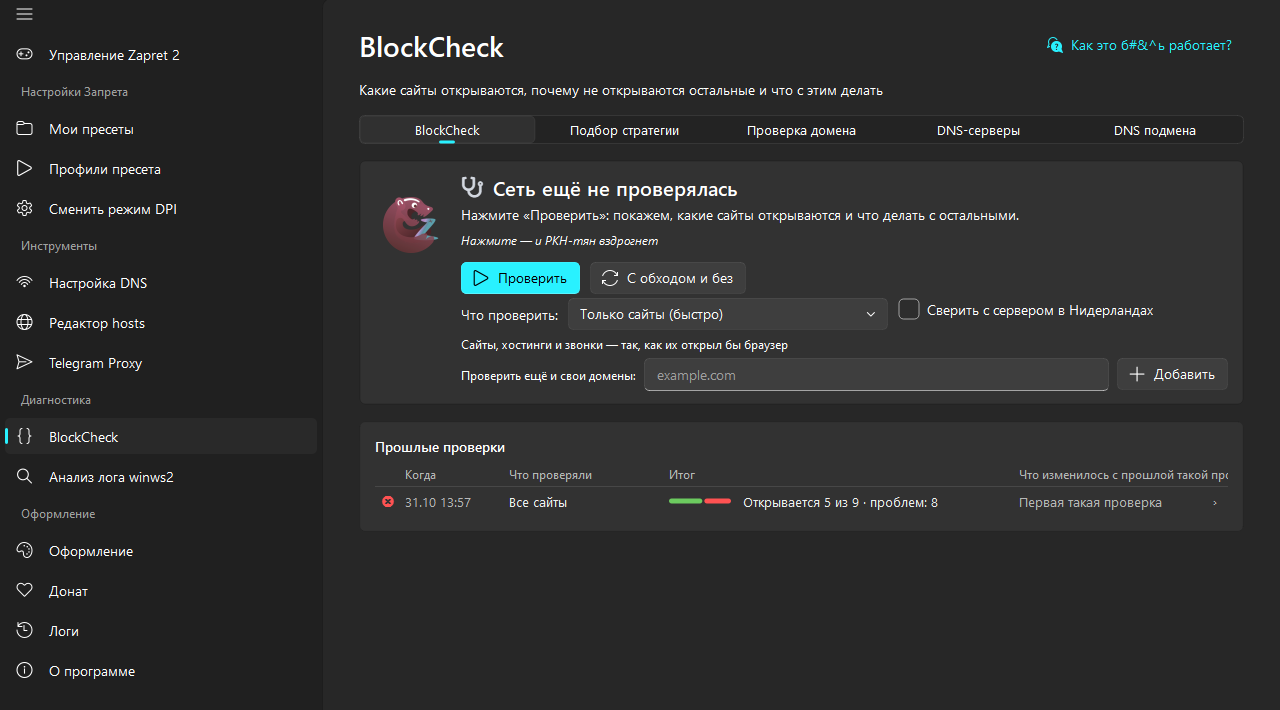
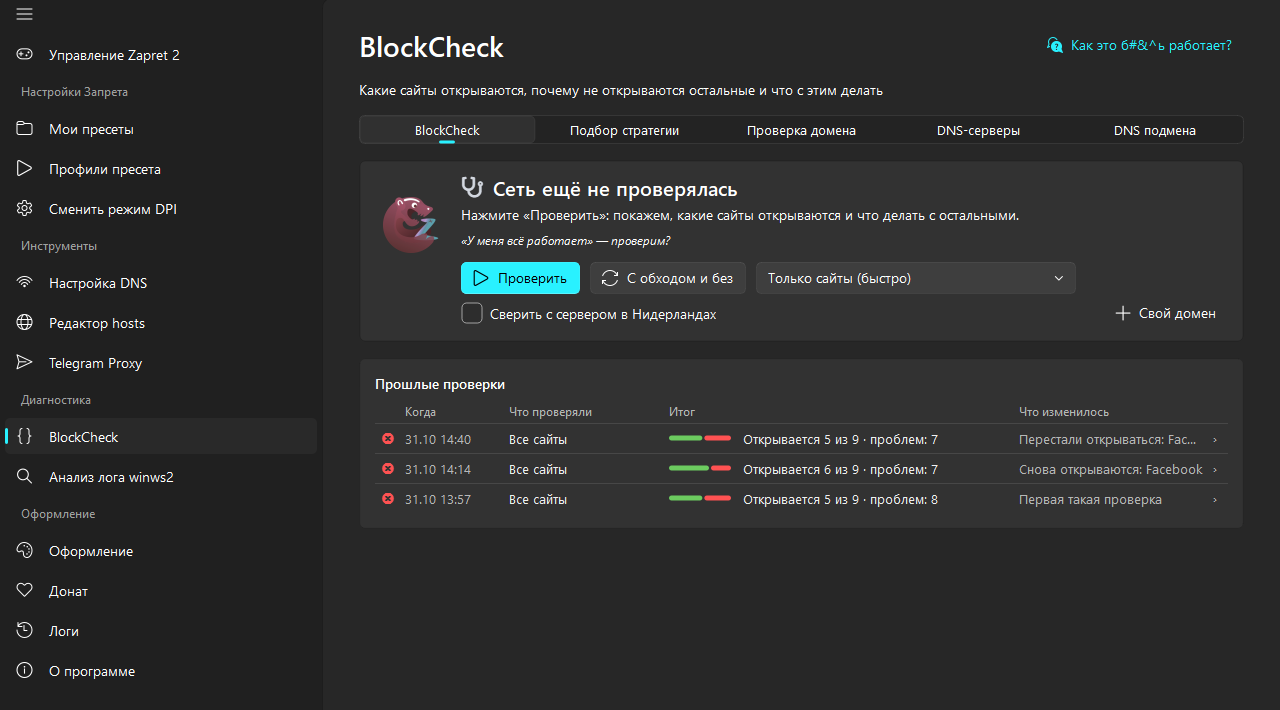
BlockCheck: статья подробнее — куда идти дальше после проверки
Карта «что показал BlockCheck → какую статью читать» в начале, разбор каждого
вида блокировки с объяснением простыми словами и ссылкой на следующую статью,
пояснение меток дорог на карточке сайта, что делать, если подбор стратегии
ничего не нашёл, частые вопросы и полная таблица «Что читать дальше» в конце.
Шаг 1 и снимки панели запуска, хода проверки и итога — под новую панель в две
строки (Dev 21.1.7.219–220).

diff --git a/Zapret/Blockcheck.md b/Zapret/Blockcheck.md
@@ -35,6 +35,20 @@ link: https://jzesawgjsz.zapret.moe/Zapret/zapret-22-stable-october-2026
 - **Проверка домена**, **DNS-серверы** и **DNS подмена** отвечают на частные вопросы: что происходит с одним сайтом, какие DNS-серверы у вас рабочие и не подменяет ли провайдер адреса.
 - Стратегия помогает не от всего. Бан по адресу, сайт, который сам закрыт для России, и подмену DNS лечат «Редактор hosts» и «Настройка DNS», и BlockCheck подсказывает это прямо в итоге.
 
+## Куда идти после BlockCheck
+
+BlockCheck — это диагностика: он не чинит сайт сам, а говорит, *что* ему мешает. Дальше всё зависит от ответа, и для каждого ответа в вики есть своя статья. Короткая карта, чтобы не заблудиться:
+
+- **Программа только установлена и ничего не настроено** — сначала [[Zapret2/guide|настройка Zapret 2 GUI для новичков]]: выбор пресета и запуск обхода. BlockCheck полезнее, когда есть что сравнивать.
+- **Итог «по имени (SNI)», «обрыв», «через раз», «почерк браузера»** — это работа для стратегии: вкладка «Подбор стратегии» ниже, затем [[Zapret2/verify-strategy|как честно проверить стратегию]] и, если хочется понять механику, [[Zapret2/desync|как устроены стратегии]].
+- **Итог «по адресу (IP)» или сервис сам закрыт для России** (ChatGPT, Gemini, Claude, Spotify) — стратегия не поможет, нужен другой адрес: [[Zapret/hosts|Редактор hosts]] и [[Zapret/zapret-dns|Zapret DNS]].
+- **Итог «DNS»** — провайдер подменяет ответы или DNS-сервер молчит: [[Zapret/doh-cherez-zapret|шифрованный DNS и Zapret]] и [[DPI/tspu-dns-nsdi-dnat-august-2026|как устроен перехват DNS]].
+- **Сайт открывается, но частично** (нет картинок, видео, чата) — [[Zapret2/find-site-domains|как найти домены, которые не грузятся]], потом [[Zapret2/add-profile|как добавить их в свой профиль]].
+- **Игры и звонки** — [[Zapret2/find-game-strategy|как подобрать стратегию для игры]] и [[Zapret/discord|Discord]].
+- **Вчера работало, сегодня нет** — [[Zapret2/symptom-not-cause|почему «Zapret перестал работать» — это обычно обновление фильтра у провайдера]].
+
+Полная таблица «что показал BlockCheck → что читать» стоит в конце статьи, в разделе «Что читать дальше».
+
 ## Где найти BlockCheck
 
 Раздел открывается пунктом **BlockCheck** в группе «Диагностика» бокового меню. Сверху у него пять вкладок: **BlockCheck**, **Подбор стратегии**, **Проверка домена**, **DNS-серверы** и **DNS подмена**. Первая вкладка отвечает на общий вопрос «что у меня не открывается и почему», остальные решают отдельные задачи, о них ниже.
@@ -43,11 +57,18 @@ link: https://jzesawgjsz.zapret.moe/Zapret/zapret-22-stable-october-2026
 
 ## Шаг 1. Запустите проверку
 
-Пока проверок не было, на вкладке видна панель «Сеть ещё не проверялась». В ней всё, чем проверку настраивают:
+Пока проверок не было, на вкладке видна панель «Сеть ещё не проверялась». Управление в ней занимает две строки.
 
-- **«Что проверить»** — набор проверок. «Только сайты (быстро)» проверяет список популярных сайтов так, как их открыл бы браузер. «Только Discord и YouTube (быстро)» проверяет только эти два сервиса. «Глубокая диагностика (около минуты)» добавляет DNS-серверы, поиск места фильтра и пробы, которых браузер не делает: пачку соединений сразу, серию UDP-пакетов, загрузку на сервер.
-- **«Сверить с сервером в Нидерландах»** — сервер проекта откроет закрытые сайты из-за рубежа. Так видно, блокировка это или сайт не работает сам. Галочка выключена по умолчанию, потому что соединение с сервером проекта видит провайдер.
-- **«Проверить ещё и свои домены»** — если нужного сайта нет в списке, впишите его адрес и нажмите «Добавить». Домен запомнится и будет проверяться вместе с остальными, пока вы его не уберёте.
+В первой строке кнопки и выпадающий список с набором проверок:
+
+- **«Только сайты (быстро)»** — список популярных сайтов, каждый открывается так, как его открыл бы браузер. Это режим по умолчанию и самый полезный для начала: одна-две минуты.
+- **«Только Discord и YouTube (быстро)»** — только эти два сервиса, когда нужен быстрый ответ про них.
+- **«Глубокая диагностика (около минуты)»** — всё то же плюс проверка DNS-серверов, поиск места фильтра и пробы, которых браузер не делает: пачка соединений сразу, серия UDP-пакетов, загрузка на сервер. Нужна, когда быстрый режим не объяснил, что происходит, или когда разбираетесь с поддержкой.
+
+Во второй строке — две настройки:
+
+- **«Сверить с сервером в Нидерландах»** — для сайтов, которые не открылись, программа спросит сервер проекта Zapret DNS в Нидерландах, открываются ли они из-за рубежа. Если и там нет, BlockCheck честно скажет «сайт не работает сам», а не назовёт это блокировкой. На сервер уходят только имена сайтов из встроенного списка, ваши собственные домены и сведения о компьютере не уходят; сервер ничего не записывает. Галочка выключена по умолчанию по одной причине: провайдер увидит, что компьютер соединился с сервером проекта (что внутри соединения, он не видит).
+- **«+ Свой домен»** — если нужного сайта нет в проверке, нажмите эту ссылку, впишите адрес и нажмите «Добавить». Домен запомнится и будет проверяться вместе с остальными, пока вы его не уберёте.
 
 Затем нажмите **«Проверить»**.
 
@@ -90,7 +111,33 @@ link: https://jzesawgjsz.zapret.moe/Zapret/zapret-22-stable-october-2026
 
 ![[blockcheck-v22-what-helps.png]]
 
-Проще говоря: если в итоге написано «по имени», «обрыв» или «через раз», идите в «Подбор стратегии». Если «по адресу», «DNS» или «hosts», стратегию подбирать бессмысленно, и кнопка в группе сразу ведёт в нужный раздел.
+Проще говоря: если в итоге написано «по имени», «обрыв» или «через раз», идите в «Подбор стратегии». Если «по адресу», «DNS» или «hosts», стратегию подбирать бессмысленно, и кнопка в группе сразу ведёт в нужный раздел. Ниже каждый вид разобран подробнее: как он выглядит, почему так происходит и что читать дальше.
+
+### Блокировка по имени (SNI)
+
+Когда браузер открывает сайт по HTTPS, первым пакетом он здоровается с сервером, и в этом приветствии открытым текстом написано имя сайта (поле SNI). Оборудование провайдера (ТСПУ — технические средства противодействия угрозам) читает это имя и, если оно в списке, молча глушит соединение. На карточке это выглядит как «TLS 1.2: молчит», «TLS 1.3: молчит», «Chrome: режется», а в подробностях — строка «то же имя другими буквами сервер принимает»: фильтр ищет имя буква в букву, а сам сервер жив.
+
+Проще говоря: сервер работает, но провайдер рвёт соединение, как только видит имя сайта. Именно это обходит Zapret: стратегия меняет первые пакеты так, что фильтр имени не узнаёт. Идите во вкладку «Подбор стратегии». Как стратегии это делают, разобрано в статье [[Zapret2/desync|про --lua-desync]], а самые частые приёмы — в разборах [[Zapret2/desync/fake|fake]] и [[Zapret2/desync/multisplit|multisplit]].
+
+### Обрыв после 16 КБ и «открываются через раз»
+
+Соединение устанавливается, первые килобайты проходят, а потом данные замирают. Так работает фильтр, который пропускает начало соединения и обрывает его на объёме около 16–20 КБ: страница начинает грузиться и останавливается, видео стоит на загрузке. «Через раз» — когда часть попыток проходит, часть нет. Оба вида тоже лечатся стратегией. Почему фильтр устроен именно так, разобрано в статье [[DPI/dpi-analysis-pipeline|как ТСПУ анализирует соединение слой за слоем]].
+
+### Бан по адресу (IP)
+
+Здесь закрыт сам адрес сервера: до него не доходит ни одно соединение, как ни меняй пакеты. Стратегия помогает тут редко. Нужен другой адрес, по которому сервис тоже отвечает: его подставляет DNS-профиль в [[Zapret/hosts|Редакторе hosts]] или сервер [[Zapret/zapret-dns|Zapret DNS]]. Если сервис нужен целиком и адреса закрыты все, остаётся VPN.
+
+### DNS
+
+DNS — служба, которая превращает имя сайта в адрес. Если провайдер подменяет ответ, браузер идёт не туда, и сайт не открывается ещё до всякой проверки соединения. В итоге это группа «DNS» с кнопкой «Настройка DNS»: там включается шифрованный DNS, ответ которого провайдер не может прочитать и подменить. Подробнее — [[Zapret/doh-cherez-zapret|поможет ли Zapret, если блокируют сам DNS]] и [[DPI/tspu-dns-nsdi-dnat-august-2026|как провайдеры перехватывают DNS]]. Проверить подмену отдельно можно на вкладке «DNS подмена».
+
+### Мешает запись в hosts и чужой сертификат
+
+Иногда сайт ломает не провайдер, а сам компьютер: в файле hosts записан старый адрес сайта, который больше не отвечает, или вместо сайта отвечает чужой сервер со своим сертификатом — например, страница провайдера или программа на компьютере, которая сама разбирает HTTPS. BlockCheck называет такую причину прямо: «Мешает запись в hosts», «Отвечает чужой сервер». Запись обновляется или убирается в [[Zapret/hosts|Редакторе hosts]].
+
+### Сайт не работает сам
+
+Сайт не открывается и из-за рубежа — значит, он выключен, а не заблокирован. Этот вывод BlockCheck делает, только когда включена галочка «Сверить с сервером в Нидерландах». Zapret тут не поможет: подождите и повторите проверку.
 
 ## Шаг 4. Посмотрите карточки сайтов
 
@@ -98,8 +145,17 @@ link: https://jzesawgjsz.zapret.moe/Zapret/zapret-22-stable-october-2026
 
 - кружок и подпись под названием: открывается сайт или чем закрыт;
 - строки — отдельные адреса сервиса: сам сайт, превью видео, служба плеера, видео, чат, картинки;
-- метки внизу — какие дороги прошли и какие нет: TLS 1.2, TLS 1.3, Chrome (приветствие настоящего браузера), HTTP, QUIC, передача (быстро ли идут данные и нет ли пауз) и DNS (честен ли ответ);
-- метки «в реестре РКН», «контрольный», «запись в hosts устарела».
+- метки внизу — какие дороги к сайту прошли и какие нет;
+- метки «в реестре РКН» (сайт есть в реестре блокировок), «контрольный», «запись в hosts устарела».
+
+Метки дорог — главное на карточке. Каждая — отдельный способ открыть сайт, и вместе они показывают, что именно режет фильтр:
+
+- **TLS 1.2** и **TLS 1.3** — шифрованное соединение с двумя версиями протокола. «Молчит» значит, что на приветствие никто не ответил: так фильтр глушит соединение по имени.
+- **Chrome** — то же соединение, но с приветствием настоящего браузера Chrome. Если TLS «молчит», а Chrome «проходит», сайт откроется в браузере.
+- **HTTP** — обычное соединение без шифрования. Многие сайты отвечают на него переходом на HTTPS («переход») — это нормально.
+- **QUIC** — быстрый протокол браузера поверх UDP, которым открываются YouTube и многие сайты Google. «Закрыт» значит, что браузер откатится на обычное соединение — медленнее, но работать будет.
+- **Передача** — быстро ли сайт отвечает и нет ли пауз: соединение может установиться, а видео всё равно идти рывками.
+- **DNS** — честен ли ответ DNS: совпал ли адрес с эталонным.
 
 Google и Яндекс — контрольные сайты. Если не открываются даже они, дело не в блокировке, а в самом интернете.
 
@@ -146,7 +202,15 @@ Google и Яндекс — контрольные сайты. Если не от
 
 Пока идёт подбор, программа сама перезапускает движок с каждой стратегией. Сначала она убеждается, что без обхода сайт закрыт, потом перебирает стратегии, а каждую удачную перепроверяет. В «Надёжно работают» попадают только те, что открыли сайт три раза на свежих соединениях и выдержали объём: фильтр часто режет соединение после 16–20 КБ. «Сайты и приложения» сами поймут, если сайту нужен обычный HTTP без шифрования или быстрый протокол QUIC.
 
-**«Применить лучшую»** записывает самую быструю стратегию в выбранный пресет и сразу проверяет сайт уже через него, а «Применить» в строке — любую другую. Стратегия ложится не в общий профиль, а в отдельный [[Zapret2/profile|профиль]] для этого сайта, поэтому остальные сайты она не трогает. Как проверить стратегию вручную, разобрано в заметке [[Zapret2/verify-strategy|как честно проверить стратегию]].
+**«Применить лучшую»** записывает самую быструю стратегию в выбранный пресет и сразу проверяет сайт уже через него, а «Применить» в строке — любую другую. Стратегия ложится не в общий профиль, а в отдельный [[Zapret2/profile|профиль]] для этого сайта, поэтому остальные сайты она не трогает. Что такое пресет и профиль и как они связаны, объясняют статьи [[Zapret2/preset|про пресет]] и [[Zapret2/profile|про профиль]].
+
+Если подбор ничего не нашёл, причин обычно три, и для каждой есть своя статья:
+
+- сайт закрыт по адресу или сам не пускает из России — тогда стратегию искать бесполезно, вернитесь к итогу BlockCheck и посмотрите [[Zapret/hosts|Редактор hosts]];
+- сайт открылся, но частично: часть его доменов идёт мимо профиля — [[Zapret2/find-site-domains|как найти такие домены]] и [[Zapret2/add-profile|как добавить их в профиль]];
+- нужна игра или голосовой чат, а не сайт — режим «Онлайн-игры» и статья [[Zapret2/find-game-strategy|как подобрать стратегию для игры]].
+
+Подбор пишет, что стратегия работает, а браузер всё равно не открывает сайт? Чаще всего мешают кэш браузера, его собственный «безопасный DNS» или расширения. Как отличить честный результат от ложного, разобрано в статье [[Zapret2/verify-strategy|как честно проверить стратегию]].
 
 ## Вкладка «Проверка домена»
 
@@ -168,6 +232,29 @@ Google и Яндекс — контрольные сайты. Если не от
 
 ![[blockcheck-v22-dns-spoof.png]]
 
+## Частые вопросы
+
+**BlockCheck пишет «открывается», а в браузере сайт не грузится.** BlockCheck проверяет сеть, а браузер добавляет своё: кэш, собственный шифрованный DNS, расширения, старые соединения. Закройте браузер полностью и откройте снова. Если не помогло — [[Zapret2/verify-strategy|как честно проверить стратегию]].
+
+**Результат меняется от проверки к проверке.** Так бывает, когда фильтр режет «через раз» или когда у сервиса много адресов и часть закрыта. Для таких сайтов BlockCheck и пишет отдельный исход «открывается через раз». Сравнивайте проверки в «Прошлых проверках».
+
+**Вчера всё работало, сегодня нет.** Обычно это значит, что провайдер обновил фильтр, а не что сломалась программа. Проверьте ещё раз с «С обходом и без» и подберите стратегию заново. Подробнее — [[Zapret2/symptom-not-cause|почему «Zapret перестал работать» — симптом, а не поломка]].
+
+**Нужно ли выключать VPN.** Да, на время проверки. С включённым VPN BlockCheck проверяет дорогу через VPN и пишет об этом предупреждение в итоге.
+
+## Что читать дальше
+
+| Что показал BlockCheck | Что сделать в программе | Что прочитать |
+|---|---|---|
+| По имени (SNI), обрыв, через раз, почерк браузера | «Подбор стратегии» | [[Zapret2/verify-strategy\|Честная проверка стратегии]], [[Zapret2/desync\|Как устроены стратегии]] |
+| По адресу (IP), сервис сам закрыт для России | «Редактор hosts», «Настройка DNS» | [[Zapret/hosts\|Редактор hosts]], [[Zapret/zapret-dns\|Zapret DNS]] |
+| DNS | «Настройка DNS», вкладка «DNS подмена» | [[Zapret/doh-cherez-zapret\|Шифрованный DNS и Zapret]], [[DPI/tspu-dns-nsdi-dnat-august-2026\|Перехват DNS]] |
+| Мешает запись в hosts | «Редактор hosts», «Файл hosts» | [[Zapret/hosts\|Редактор hosts]] |
+| Сайт открывается частично | «Подбор стратегии», свой профиль | [[Zapret2/find-site-domains\|Как найти домены сайта]], [[Zapret2/add-profile\|Свой профиль]] |
+| Игры, звонки | «Подбор стратегии», режимы «Онлайн-игры» и «Голосовые звонки» | [[Zapret2/find-game-strategy\|Стратегия для игры]], [[Zapret/discord\|Discord]] |
+| Работало и перестало | «С обходом и без», подбор заново | [[Zapret2/symptom-not-cause\|Симптом, а не поломка]] |
+| Ничего не помогло | «Подготовить обращение» | [[Zapret/zapret_not_working\|Что делать, если Zapret не работает]] |
+
 ## Консольный blockcheck из оригинального Zapret
 
 До версии 22 в этой заметке была инструкция к консольному скрипту `blockcheck.cmd` из оригинального Zapret. Он по-прежнему существует и нужен тем, кто хочет перебрать вообще все стратегии движка: распакуйте архив, запустите `blockcheck.cmd`, дождитесь конца (около часа, консоль не закрывайте) и пришлите `blockcheck.log` в [чат по blockcheck](https://t.me/zapretblockcheck). Для большинства задач встроенного «Подбора стратегии» достаточно.
@@ -187,6 +274,8 @@ Google и Яндекс — контрольные сайты. Если не от
 - [[Zapret2/verify-strategy|Как честно проверить стратегию]] — проверка вручную, шаг за шагом
 - [[Zapret2/profile|Профиль]] и [[Zapret2/preset|пресет]] — куда записывается найденная стратегия
 - [[Zapret/wssize|wssize]] — почему стратегии с wssize стоят в конце лога консольного blockcheck
+- [[Zapret2/guide|Настройка Zapret 2 GUI для новичков]] — с чего начать, если программа только установлена
+- [[Zapret/zapret_not_working|Что делать, если Zapret не работает]] — общий разбор, когда ничего не помогло
 
 ---
 
